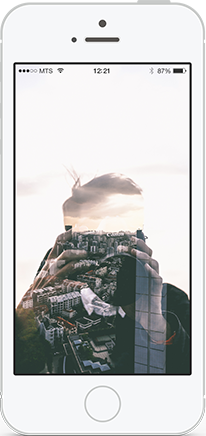
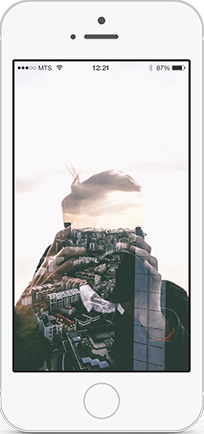
modified background opacity on images under some sections, changed background image to be under whole design section. Replaced ipad and phone with better pictures

diff --git a/style.css b/style.css
@@ -494,13 +494,11 @@ header .learn-more:hover {
 
 
 /* design */
-#design-background {
+#design {
   width: 100%;
-  height: 450px;
   position: relative;
-  overflow: hidden;
 }
-#design-background:after {
+#design:after {
   content: '';
   display: block;
   position: absolute;
@@ -510,8 +508,22 @@ header .learn-more:hover {
   height: 100%;
   background: url('images/mountainLake.jpg') no-repeat center center;
   background-size: cover;
-  opacity: 0.15;
+  opacity: 0.18;
   z-index: -1;
+}
+#design-background {
+  width: 100%;
+  height: 450px;
+  position: relative;
+}
+#design-background:after {
+  content: '';
+  display: block;
+  position: absolute;
+  top: 0;
+  left: 0;
+  width: 100%;
+  height: 100%;
 }
 #design-background .wrapper {
   position: relative;
@@ -851,7 +863,7 @@ header .learn-more:hover {
   height: 100%;
   background: url('images/backgroundClients.jpg') no-repeat center center;
   background-size: cover;
-  opacity: 0.16;
+  opacity: 0.18;
   z-index: -1;
 }
 #clients .wrapper {

diff --git a/index.html b/index.html
@@ -251,7 +251,7 @@
         <div id="design-background">
           <div class="wrapper">
             <div id="ipad-screen">
-              <img src="images/screen1.jpg" alt="ipad screen">
+              <img src="images/ipad.png" alt="ipad screen">
             </div>
             <div id="iphone-screen">
               <img src="images/phone.png" alt="iphone screen">
